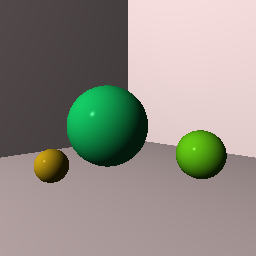
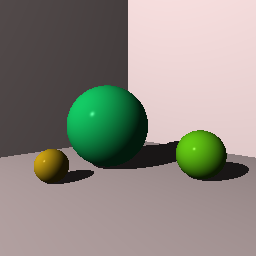
end chapt 8 - shadows

Changed region(s): [[0.375, 0.5312, 0.7188, 0.6875], [0.75, 0.625, 0.9688, 0.7188], [0.1875, 0.6562, 0.375, 0.7188]]

diff --git a/src/ray.rs b/src/ray.rs
@@ -5,6 +5,8 @@ pub mod ray {
     use crate::matrix::matrix::Matrix;
     use crate::shape::shape::Shape;
 
+    pub const EPSILON: f64 = 0.00001;
+
     // Intersection struct
     #[derive(Debug, Clone, PartialEq)]
     pub struct Intersection<'a> {
@@ -19,6 +21,7 @@ pub mod ray {
         pub eyev: Tuple,
         pub normalv: Tuple,
         pub inside: bool,
+        pub over_point: Tuple,
     }
 
     impl<'a> Intersection<'a> {
@@ -28,7 +31,8 @@ pub mod ray {
             let normalv = self.object.normal_at(&point);
             let inside = normalv.dot(&eyev) < 0.0;
             let normalv = if inside { normalv.negate() } else { normalv };
-            Computations { t: self.t, object: self.object, point, eyev, normalv, inside }
+            let over_point = point.add(&normalv.multiply(EPSILON));
+            Computations { t: self.t, object: self.object, point, eyev, normalv, inside, over_point }
         }
     }
 
@@ -145,6 +149,17 @@ mod tests {
         let r2 = r.transform(&m);
         assert_eq!(r2.origin, Tuple::point(2.0, 6.0, 12.0));
         assert_eq!(r2.direction, Tuple::vector(0.0, 3.0, 0.0));
+    }
+
+    #[test]
+    fn intersections_the_hit_should_offset_the_point() {
+        let r = Ray::new(Tuple::point(0.0, 0.0, -5.0), Tuple::vector(0.0, 0.0, 1.0));
+        let mut s = Shape::sphere();
+        s.transform = Matrix::translate(0.0, 0.0, 1.0);
+        let i = super::ray::Intersection { t: 5.0, object: &s };
+        let comps = i.prepare_computations(&r);
+        assert!(comps.over_point.z < -super::ray::EPSILON / 2.0);
+        assert!(comps.point.z > comps.over_point.z);
     }
 
     #[test]

diff --git a/src/world.rs b/src/world.rs
@@ -51,10 +51,10 @@ pub mod world {
             // TODO: support multiple light sources, loop through all lights and sum the results
             lighting(&comps.object.material,
                      &self.light,
-                     &comps.point,
+                     &comps.over_point,
                      &comps.eyev,
                      &comps.normalv,
-                     false)
+                     self.is_shadowed(&comps.over_point))
         }
 
         pub fn color_at(&self, r: &Ray) -> Color {
@@ -147,6 +147,21 @@ mod tests {
         let comps = i.prepare_computations(&r);
         let c = w.shade_hit(&comps);
         assert_eq!(c, Color::new(0.9049844720832575, 0.9049844720832575, 0.9049844720832575));
+    }
+
+    #[test]
+    fn shade_hit_is_given_an_intersection_in_shadow() {
+        let mut w = World::default_world();
+        w.light = PointLight::new(Color::new(1.0, 1.0, 1.0), Tuple::point(0.0, 0.0, -10.0));
+        let s1 = Shape::sphere();
+        let mut s2 = Shape::sphere();
+        s2.transform = Matrix::translate(0.0, 0.0, 10.0);
+        w.objects = vec![s1, s2];
+        let r = Ray::new(Tuple::point(0.0, 0.0, 5.0), Tuple::vector(0.0, 0.0, 1.0));
+        let i = Intersection{t: 4.0, object: &w.objects[1]};
+        let comps = i.prepare_computations(&r);
+        let c = w.shade_hit(&comps);
+        assert_eq!(c, Color::new(0.1, 0.1, 0.1));
     }
 
     #[test]

diff --git a/src/camera.rs b/src/camera.rs
@@ -187,7 +187,7 @@ mod tests {
         use crate::shape::shape::Shape;
         use crate::world::world::World;
 
-        let mut c = Camera::new(400, 200, std::f64::consts::PI / 3.0);
+        let mut c = Camera::new(256, 256, std::f64::consts::PI / 3.0);
         let from = Tuple::point(0.0, 1.5, -5.0);
         let to = Tuple::point(0.0, 1.0, 0.0);
         let up = Tuple::vector(0.0, 1.0, 0.0);
